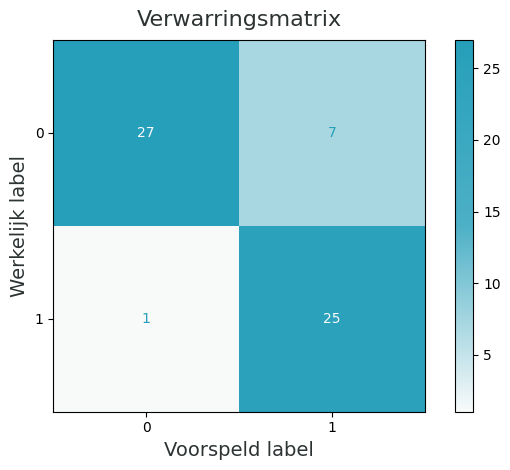
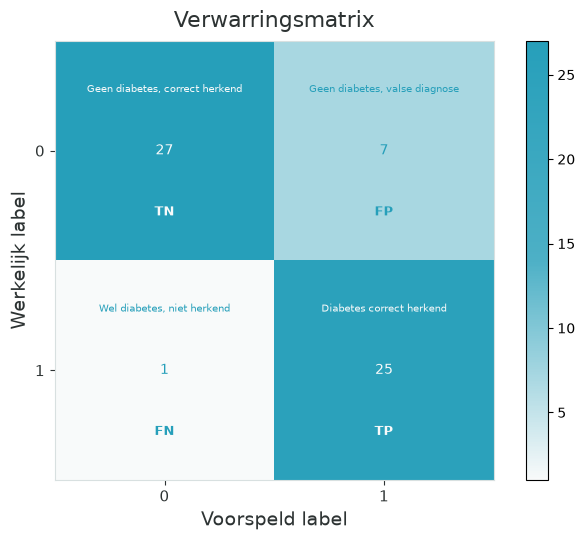
updated fraud detection example and classification examples

diff --git a/CCPlots/implementation/FraudDetection.py b/CCPlots/implementation/FraudDetection.py
@@ -1,0 +1,105 @@
+import numpy as np
+import matplotlib.colors as mcolors
+import matplotlib.pyplot as plt
+from sklearn.datasets import make_classification
+from sklearn.model_selection import train_test_split
+from sklearn.preprocessing import StandardScaler
+from sklearn.linear_model import LogisticRegression
+
+from CCPlots.PlotExample import PlotExample
+from CCPlots.config import BITROOT_PALETTE, apply_bitroot_style, output_path
+
+TEXT_BY_LOCALE = {
+    "en": {
+        "title": "Decision Boundary for Fraud Detection",
+        "xlabel": "Feature 1 (standardized)",
+        "ylabel": "Feature 2 (standardized)",
+        "legend_title": "Classes",
+        "legend_no_fraud": "No Fraud",
+        "legend_fraud": "Fraud",
+    },
+    "nl": {
+        "title": "Beslissingsgrens voor Fraudedetectie",
+        "xlabel": "Kenmerk 1 (gestandaardiseerd)",
+        "ylabel": "Kenmerk 2 (gestandaardiseerd)",
+        "legend_title": "Klassen",
+        "legend_no_fraud": "Geen Fraude",
+        "legend_fraud": "Fraude",
+    },
+}
+
+
+class FraudDetection(PlotExample):
+
+    fraud_cmap = mcolors.ListedColormap([
+        BITROOT_PALETTE["primary"],
+        BITROOT_PALETTE["highlight"],
+    ])
+
+    def main(self) -> None:
+        X, y = make_classification(
+            n_samples=800,
+            n_features=2,
+            n_informative=2,
+            n_redundant=0,
+            n_clusters_per_class=1,
+            weights=[0.9, 0.1],
+            class_sep=1.8,
+            random_state=42
+        )
+
+        X_train, X_test, y_train, y_test = train_test_split(
+            X, y, test_size=0.25, stratify=y, random_state=42
+        )
+
+        scaler = StandardScaler()
+        X_train_scaled = scaler.fit_transform(X_train)
+        X_test_scaled = scaler.transform(X_test)
+
+        model = LogisticRegression(class_weight="balanced", random_state=42)
+        model.fit(X_train_scaled, y_train)
+
+        x_min, x_max = X_train_scaled[:, 0].min() - 1, X_train_scaled[:, 0].max() + 1
+        y_min, y_max = X_train_scaled[:, 1].min() - 1, X_train_scaled[:, 1].max() + 1
+        xx, yy = np.meshgrid(np.linspace(x_min, x_max, 500),
+                             np.linspace(y_min, y_max, 500))
+
+        Z = model.predict(np.c_[xx.ravel(), yy.ravel()])
+        Z = Z.reshape(xx.shape)
+
+        for locale, labels in (("en", TEXT_BY_LOCALE["en"]), ("nl", TEXT_BY_LOCALE["nl"])):
+            fname = f"decision_boundary_fraud{'_NL' if locale == 'nl' else ''}.png"
+            fig, ax = plt.subplots(figsize=(7, 5), facecolor=BITROOT_PALETTE['background'])
+            ax.set_facecolor(BITROOT_PALETTE['background'])
+
+            boundary_cmap = mcolors.LinearSegmentedColormap.from_list(
+                "fraud_boundary",
+                [BITROOT_PALETTE["primary_soft"], BITROOT_PALETTE["highlight"]],
+                N=256,
+            )
+            ax.contourf(xx, yy, Z, alpha=0.25, cmap=boundary_cmap)
+
+            scatter = ax.scatter(
+                X_train_scaled[:, 0],
+                X_train_scaled[:, 1],
+                c=y_train,
+                edgecolor=BITROOT_PALETTE['secondary_text'],
+                linewidth=0.5,
+                cmap=self.fraud_cmap,
+                s=40,
+            )
+
+            handles, legend_labels = scatter.legend_elements()
+            ax.legend(handles,
+                      [labels["legend_no_fraud"], labels["legend_fraud"]],
+                      title=labels["legend_title"],
+                      frameon=False, fontsize=10)
+            ax.set_title(labels["title"], fontsize=14, color=BITROOT_PALETTE['text'], pad=10)
+            ax.set_xlabel(labels["xlabel"], fontsize=13, color=BITROOT_PALETTE['text'])
+            ax.set_ylabel(labels["ylabel"], fontsize=13, color=BITROOT_PALETTE['text'])
+            apply_bitroot_style(ax)
+            fig.savefig(output_path(fname), bbox_inches='tight', pad_inches=0.1)
+            plt.close(fig)
+
+if __name__ == "__main__":
+    FraudDetection().main()

diff --git a/CCPlots/implementation/ClassificationExample.py b/CCPlots/implementation/ClassificationExample.py
@@ -28,6 +28,14 @@ TEXT_BY_LOCALE = {
         "confusion_ylabel": "True label",
         "legend_no_diabetes": "No diabetes",
         "legend_diabetes_positive": "Diabetes positive",
+        "tn": "TN",
+        "tn_desc": "Correct: no diabetes",
+        "fp": "FP",
+        "fp_desc": "False alarm: labelled diabetic",
+        "fn": "FN",
+        "fn_desc": "Missed: told no diabetes",
+        "tp": "TP",
+        "tp_desc": "Correct: diabetes identified",
     },
     "nl": {
         "decision_title": "Diabetes classificatievoorbeeld",
@@ -38,6 +46,14 @@ TEXT_BY_LOCALE = {
         "confusion_ylabel": "Werkelijk label",
         "legend_no_diabetes": "Geen diabetes",
         "legend_diabetes_positive": "Diabetes positief",
+        "tn": "TN",
+        "tn_desc": "Geen diabetes, correct herkend",
+        "fp": "FP",
+        "fp_desc": "Geen diabetes, valse diagnose",
+        "fn": "FN",
+        "fn_desc": "Wel diabetes, niet herkend",
+        "tp": "TP",
+        "tp_desc": "Diabetes correct herkend",
     },
 }
 
@@ -93,26 +109,48 @@ class ClassificationExample(PlotExample):
                 xlabel=labels["confusion_xlabel"],
                 ylabel=labels["confusion_ylabel"],
                 legend_labels=(labels["legend_no_diabetes"], labels["legend_diabetes_positive"]),
+                cell_labels=labels,
             )
 
     def plot_confusion_matrix(self, fname: str, title: str,
                               xlabel: str = "Predicted label",
                               ylabel: str = "True label",
-                              legend_labels: tuple[str, str] | None = None) -> None:
+                              legend_labels: tuple[str, str] | None = None,
+                              cell_labels: dict | None = None) -> None:
         # Generate predictions and create a confusion matrix
         y_pred = self.classifier.predict(self.X_test)
         cm = confusion_matrix(self.y_test, y_pred)
 
         # Plot the confusion matrix
-        fig = plt.figure(figsize=(6, 5), facecolor=BITROOT_PALETTE['background'])
+        fig = plt.figure(figsize=(7, 5.5), facecolor=BITROOT_PALETTE['background'])
         ax = plt.gca()
         ax.set_facecolor(BITROOT_PALETTE['card_background'])
         disp = ConfusionMatrixDisplay(confusion_matrix=cm, display_labels=self.classifier.classes_)
-        disp.plot(cmap=self.confusion_cmap, values_format="d")
+        disp.plot(cmap=self.confusion_cmap, values_format="d", ax=ax)
         plt.title(title, fontsize=16, color=BITROOT_PALETTE['text'], pad=10)
         plt.xlabel(xlabel, fontsize=14, color=BITROOT_PALETTE['text'])
         plt.ylabel(ylabel, fontsize=14, color=BITROOT_PALETTE['text'])
+
+        # Add expanded cell labels (abbreviation + real-world meaning)
+        if cell_labels is not None:
+            labels_2x2 = [
+                cell_labels.get("tn", "TN"),  cell_labels.get("tn_desc", ""),
+                cell_labels.get("fp", "FP"),  cell_labels.get("fp_desc", ""),
+                cell_labels.get("fn", "FN"),  cell_labels.get("fn_desc", ""),
+                cell_labels.get("tp", "TP"),  cell_labels.get("tp_desc", ""),
+            ]
+            positions = [(0, 0), (1, 0), (0, 1), (1, 1)]
+            for idx, (col, row) in enumerate(positions):
+                text_color = disp.text_[row, col].get_color()
+                abbrev = labels_2x2[idx * 2]
+                desc = labels_2x2[idx * 2 + 1]
+                ax.text(col, row + 0.28, abbrev, ha='center', va='center',
+                        fontsize=9, fontweight='bold', color=text_color)
+                ax.text(col, row - 0.28, desc, ha='center', va='center',
+                        fontsize=7, color=text_color)
+
         apply_bitroot_style(ax, background=BITROOT_PALETTE['card_background'])
+        ax.grid(False)
         plt.tight_layout()
         plt.savefig(output_path(fname), bbox_inches='tight', pad_inches=0.1)
 

diff --git a/CCPlots/config.py b/CCPlots/config.py
@@ -28,6 +28,7 @@ BITROOT_PALETTE = {
     "secondary_text": "#4D5C5C",
     "background": "#F8FAFA",
     "card_background": "#FFFFFF",
+    "white": "#F2F5F5",
     "grid": "#D8E0E0",
 }
 
